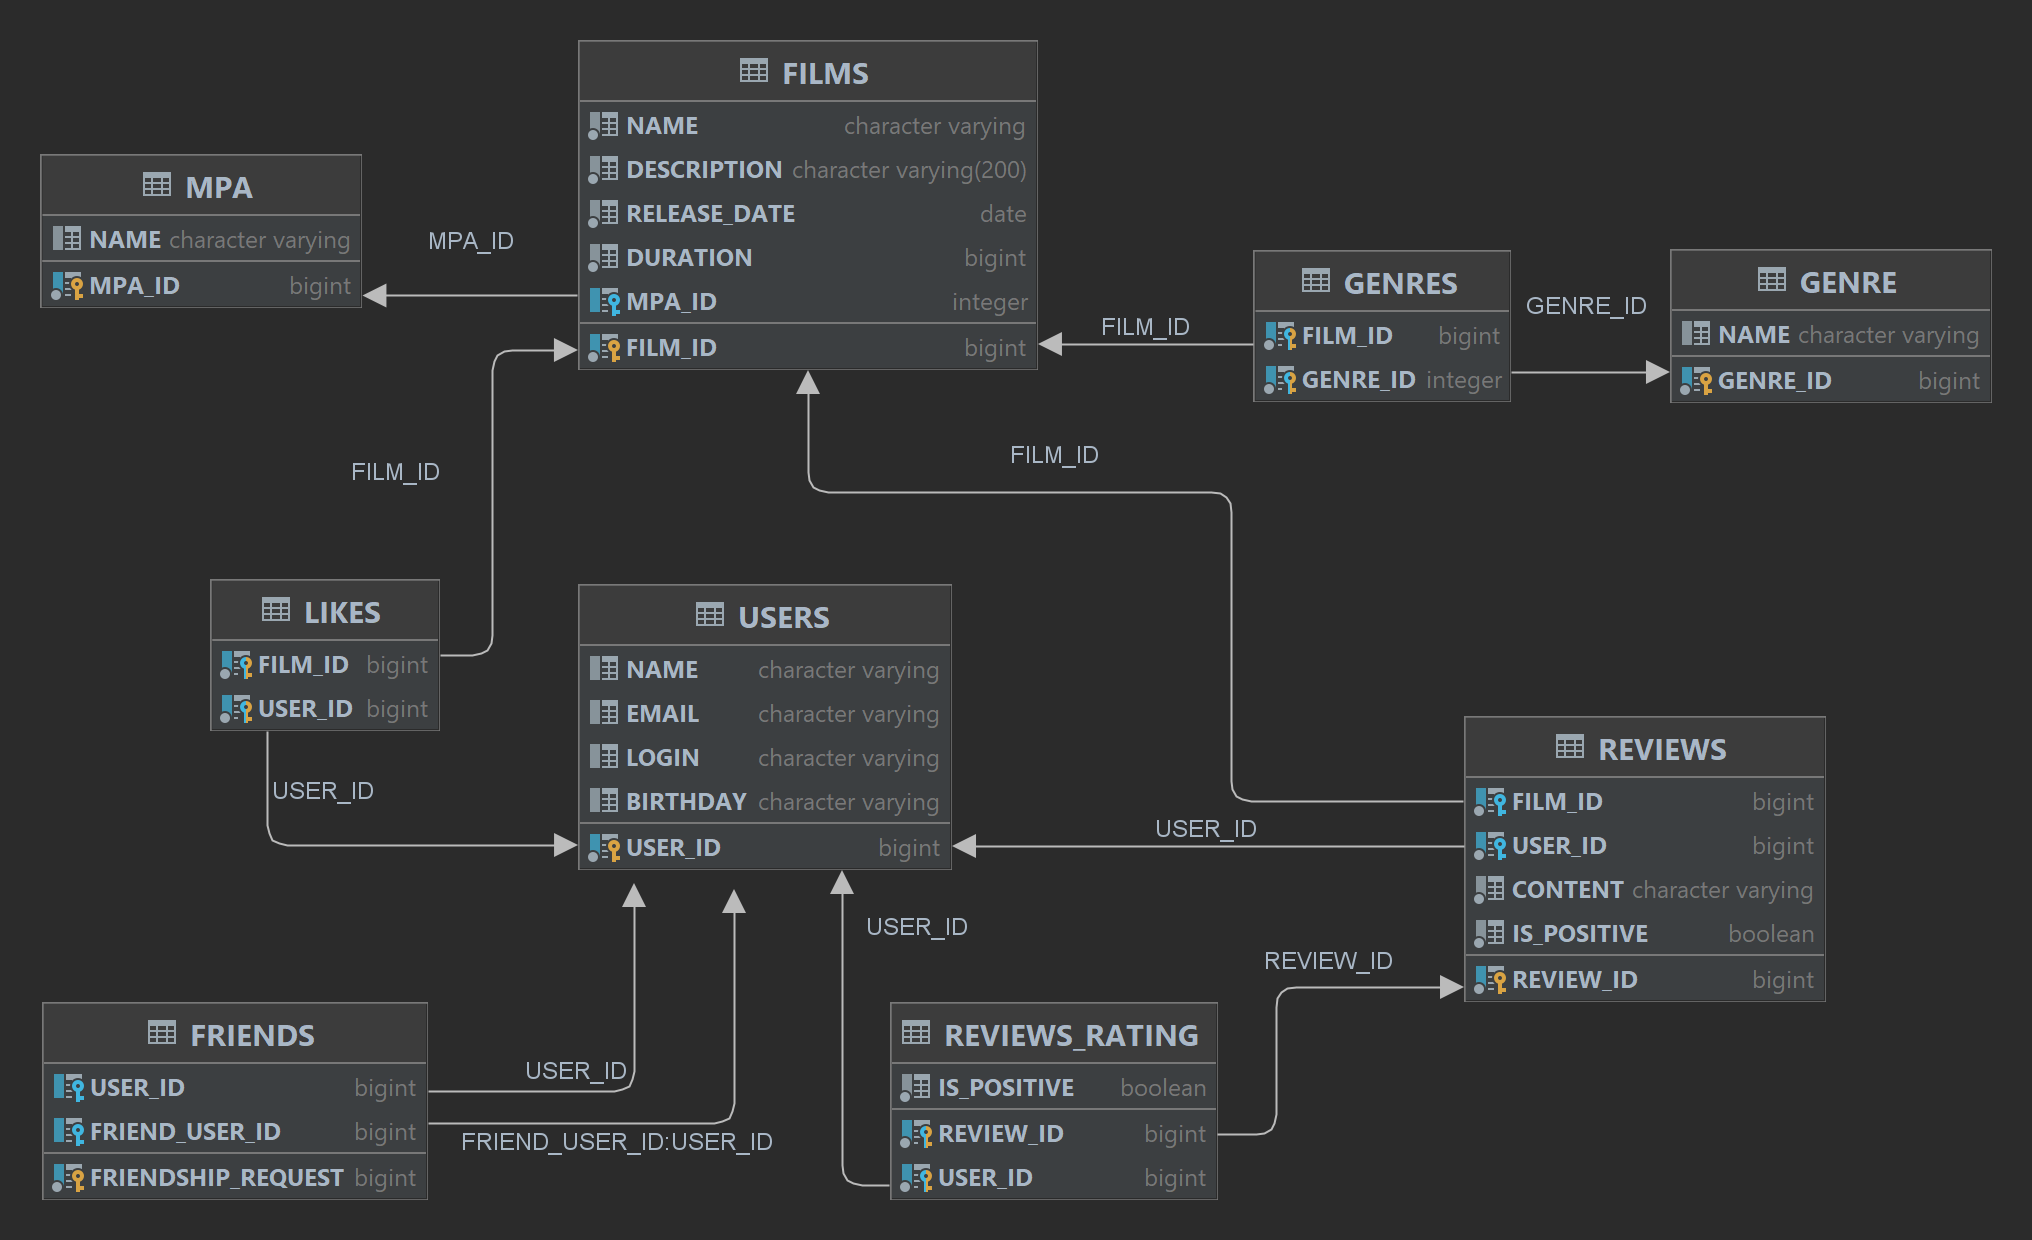
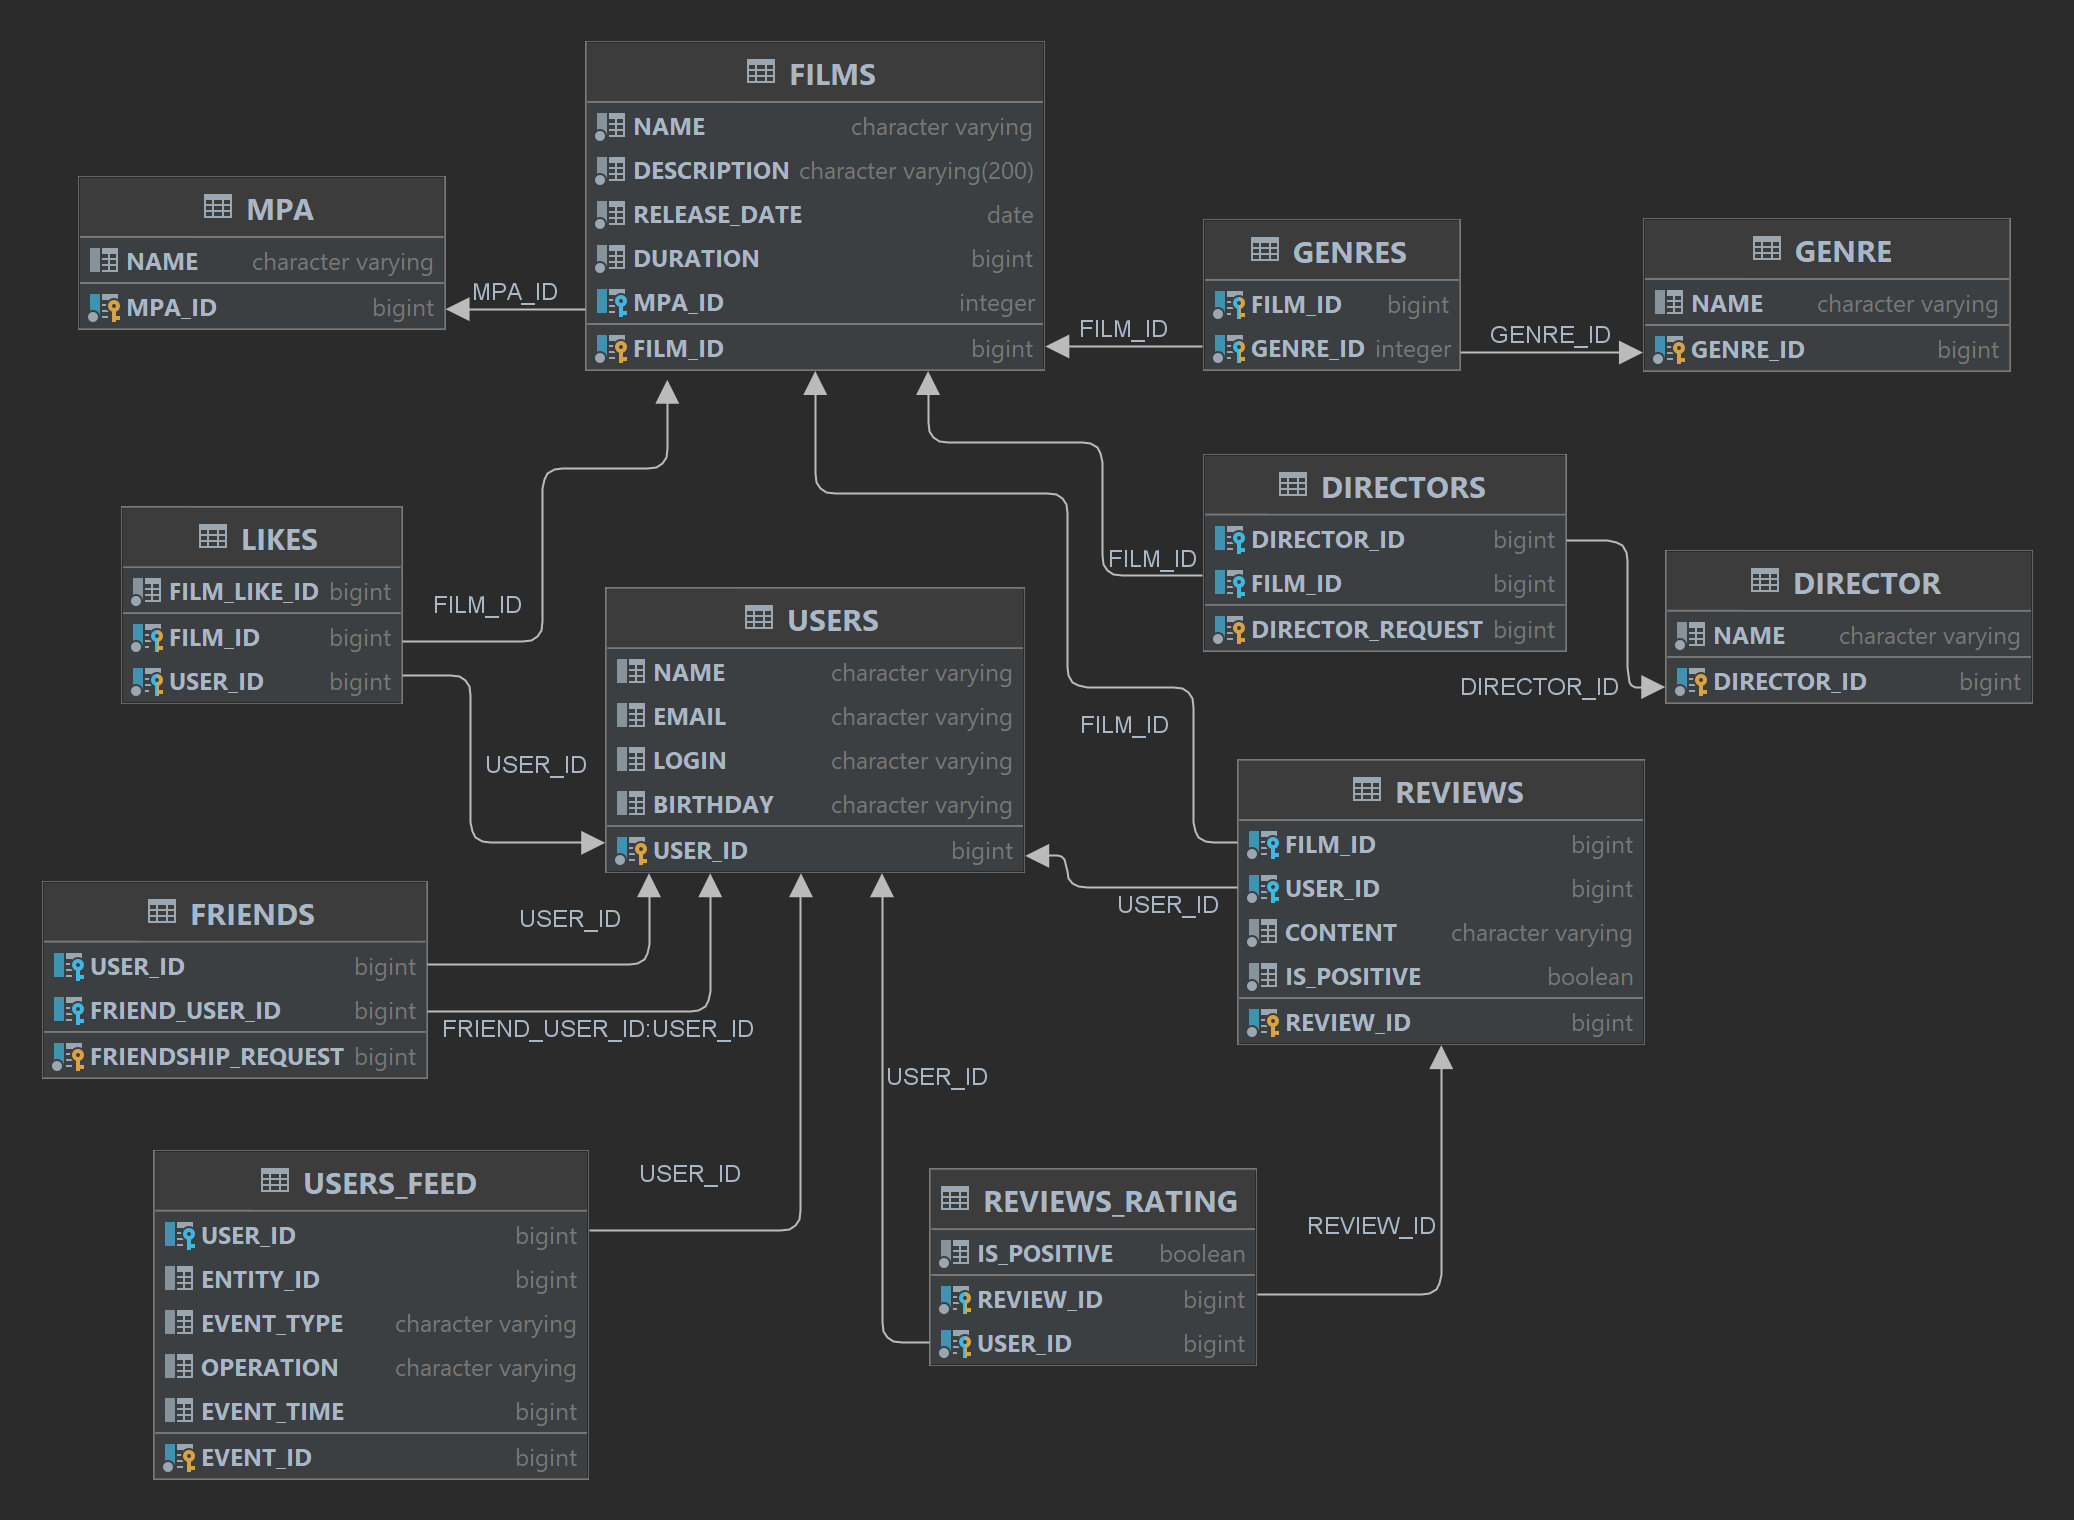
"fix: Перенести конструктор в аннотацию, исправить схему и диаграмму"

diff --git a/src/main/java/ru/yandex/practicum/filmorate/service/FilmService.java b/src/main/java/ru/yandex/practicum/filmorate/service/FilmService.java
@@ -1,5 +1,6 @@
 package ru.yandex.practicum.filmorate.service;
 
+import lombok.RequiredArgsConstructor;
 import lombok.extern.slf4j.Slf4j;
 import org.springframework.dao.DataAccessException;
 import org.springframework.stereotype.Service;
@@ -22,20 +23,13 @@ import static ru.yandex.practicum.filmorate.validator.Validator.*;
 
 @Service
 @Slf4j
+@RequiredArgsConstructor
 public class FilmService {
 
     private final FilmStorage filmStorage;
     private final GenreStorage genreStorage;
     private final DirectorStorage directorStorage;
     private final FeedStorage feedStorage;
-
-    public FilmService(FilmStorage filmStorage, GenreStorage genreStorage, DirectorStorage directorStorage,
-                       FeedStorage feedStorage) {
-        this.filmStorage = filmStorage;
-        this.genreStorage = genreStorage;
-        this.directorStorage = directorStorage;
-        this.feedStorage = feedStorage;
-    }
 
     public void addLikeFilm(Long id, Long userId) {
         validateFilm(id);
